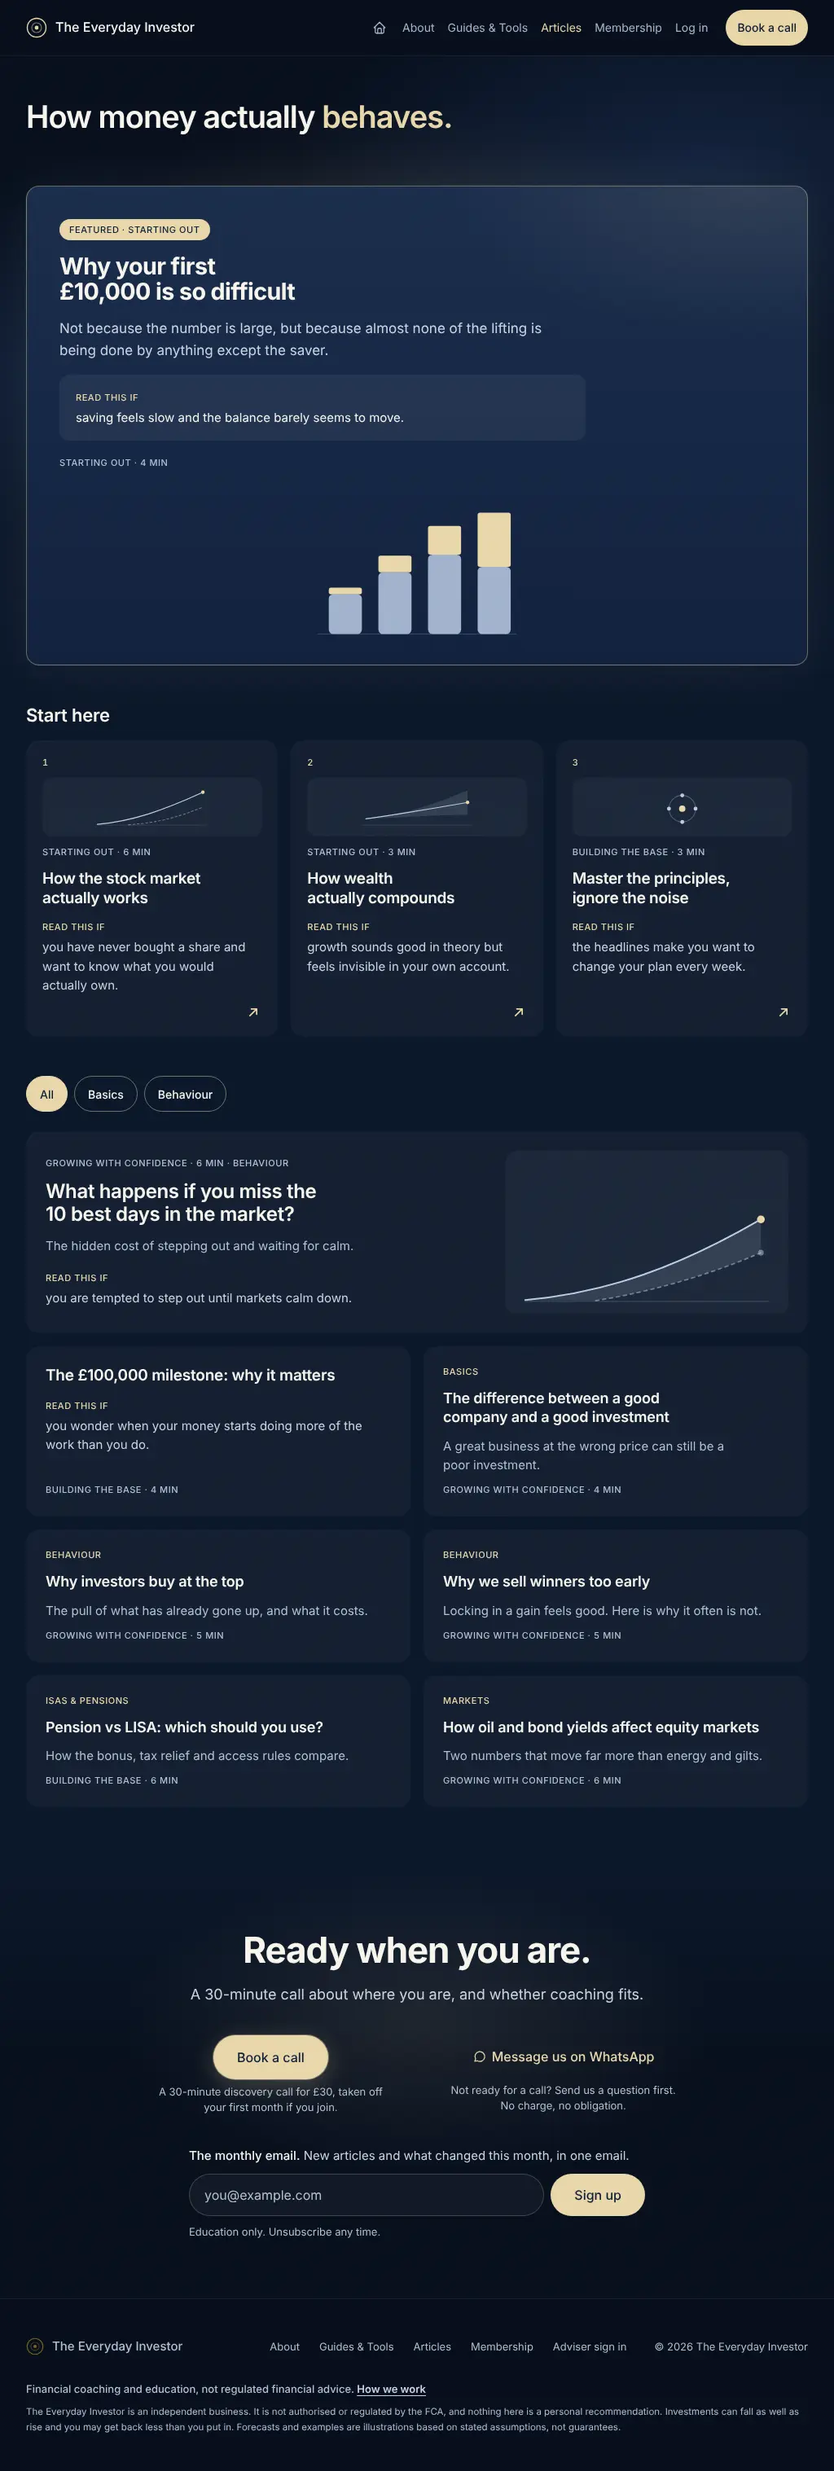
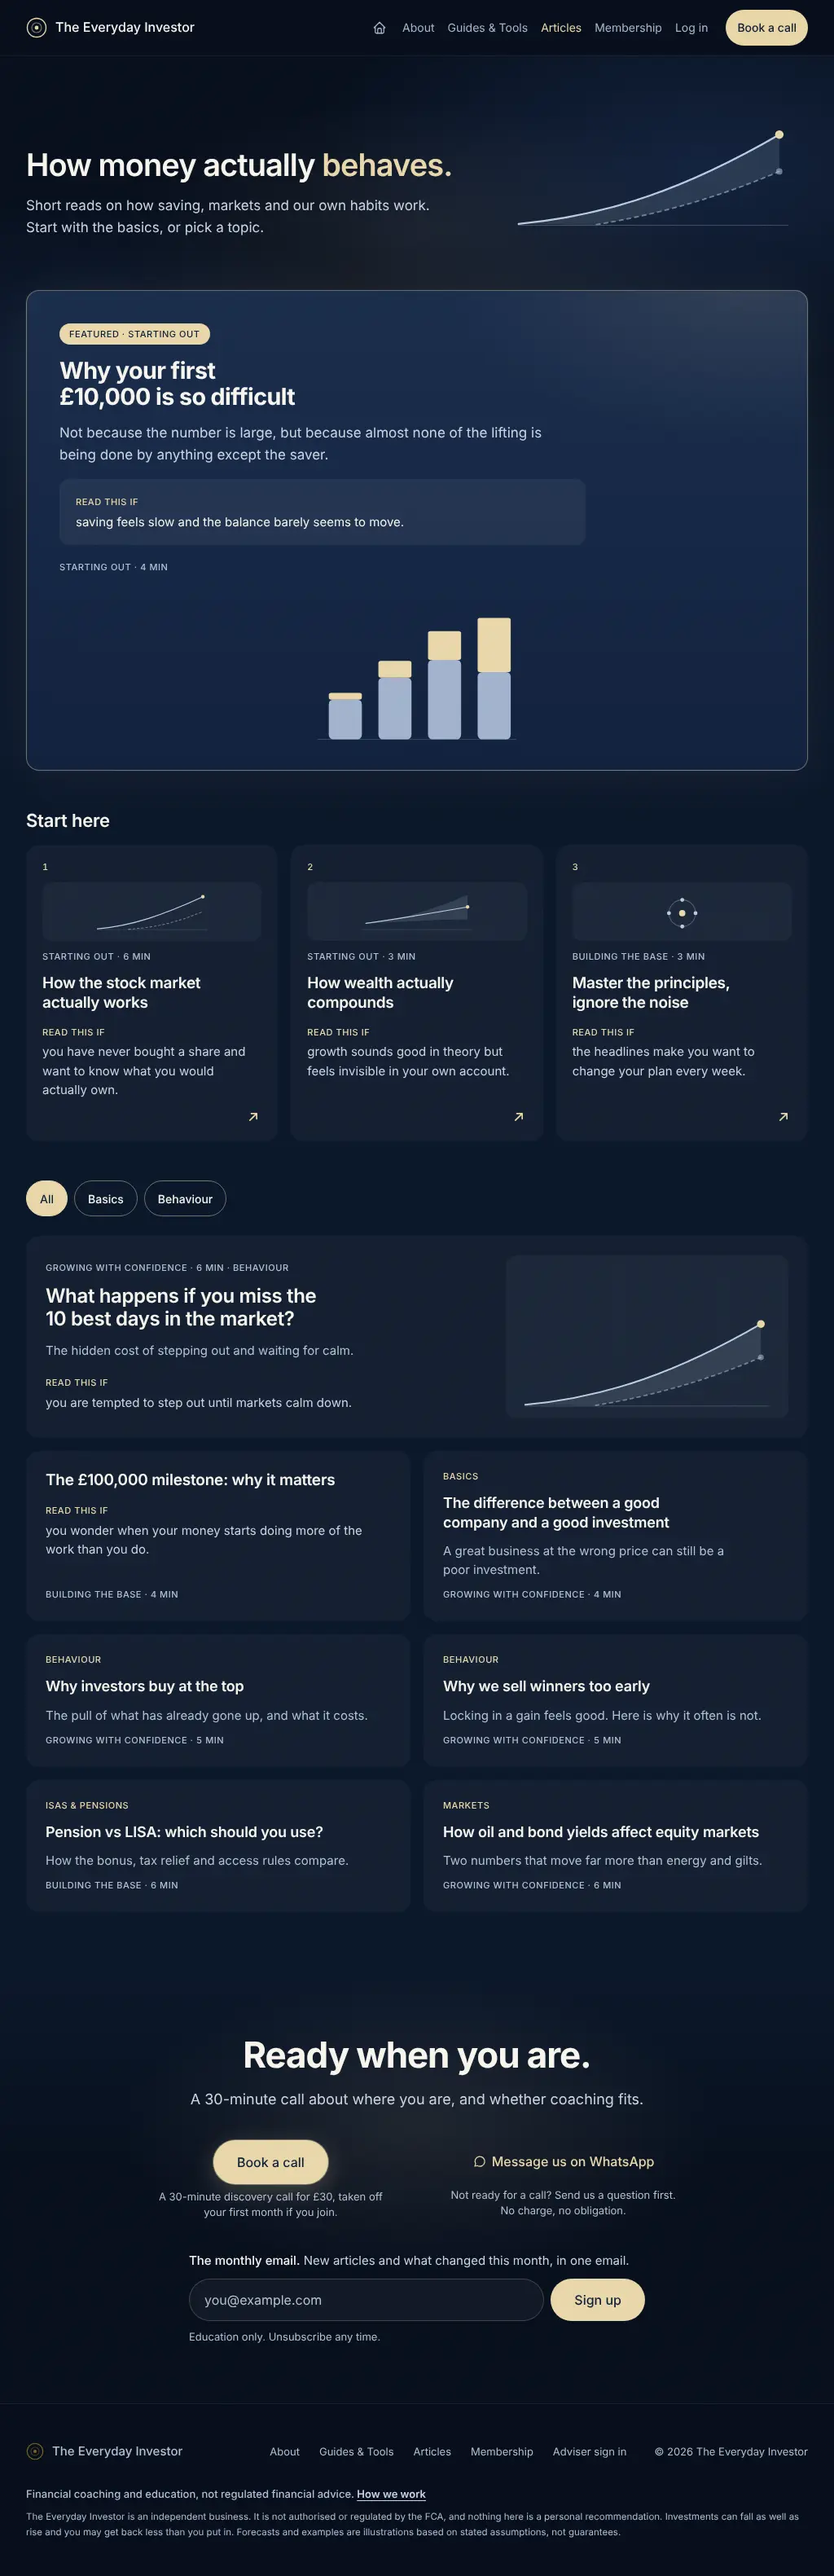
Articles: hero line and picture; the i opens on hover or tap; art on every phone card
- Hero: a line under the title and the "lines" picture on the right (a wide
  strip of it on phones). Written in the HTML so it shows with JS off.
- "Read this if" on phones sits behind an i after each title (featured,
  Start here, every grid card). Hover opens it where there is hover; a tap
  opens it on phones (no hover there); a tap elsewhere or Escape closes it.
  Cards are now a title link stretched over the card, so the i can be a
  real button beside it.
- Every grid card has a picture on phones; the lead's is taller (112px).
Desktop cards unchanged.

Claude-Session: https://claude.ai/code/session_015wx5SxX2gBEycz1xZd8Pnn

diff --git a/articles.html b/articles.html
@@ -37,26 +37,29 @@
 
 <main class="tei-page g-page" id="main">
 
-<section class="g-band g-hero">
+<section class="g-band g-hero al-hero">
 <div class="g-glow g-glow-hero" aria-hidden="true"></div>
-<div class="g-w g-in">
+<div class="g-w g-in al-hero-in">
 <h1>How money actually <span class="g-accent">behaves.</span></h1>
+<p class="g-dek">Short reads on how saving, markets and our own habits work. Start with the basics, or pick a topic.</p>
+<!-- The "lines" picture from /assets/tei-art.js, written here so it shows with JS off; on phones a wide strip of the same picture -->
+<div class="al-hero-art al-art is-bare" aria-hidden="true"><svg class="gt-svg al-hero-strip" viewBox="0 0 400 64" preserveAspectRatio="xMidYMax meet" focusable="false"><line class="s-pale" x1="6" y1="62" x2="394" y2="62"/><path class="f-pale" d="M6 61 C 150 57, 280 38, 388 8 L 388 32 C 300 46, 200 56, 110 61 Z"/><path class="s-main w3" d="M6 61 C 150 57, 280 38, 388 8"/><path class="s-main w2 dash o5" d="M110 61 C 200 56, 300 46, 388 32"/><circle class="f-acc" cx="388" cy="8" r="5"/><circle class="f-main o5" cx="388" cy="32" r="4"/></svg><svg class="gt-svg al-hero-big" viewBox="0 0 400 150" preserveAspectRatio="xMidYMax meet" focusable="false"><line class="s-pale" x1="10" y1="146" x2="390" y2="146"/><path class="f-pale t-fade" d="M10 144 C 140 132, 250 92, 378 18 L 378 70 C 290 108, 200 132, 120 145 Z"/><path class="s-main w3 t-draw2" d="M10 144 C 140 132, 250 92, 378 18"/><path class="s-main w2 dash o5 t-draw2 d2" d="M120 145 C 200 132, 290 108, 378 70"/><circle class="f-acc t-blink" cx="378" cy="18" r="6"/><circle class="f-main o5" cx="378" cy="70" r="4.5"/></svg></div>
 </div>
 </section>
 
 <!-- THE LIST, all from /articles.json: the featured article in the lifted feature card (.g-feature.is-lift), Start here (three numbered cards), the filters, then one grid of the rest. A filter or a ?series= view hides the first two and shows every match in the grid. -->
 <section class="g-band g-b1 g-from0 is-long" aria-label="All articles">
 <div class="g-w is-tight">
-<a id="al-featured" class="g-feature is-lift al-feat" hidden href="/articles.html">
+<div id="al-featured" class="g-feature is-lift al-feat" hidden>
 <div class="al-feat-body">
 <span class="al-feat-tag" data-al="tag"></span>
-<h2 data-al="title"></h2>
+<h2 class="al-h3" data-al="title"></h2>
 <p class="al-feat-teaser" data-al="teaser"></p>
-<div class="al-ri is-tile"><svg class="al-i" viewBox="0 0 24 24" aria-hidden="true" focusable="false"><circle cx="12" cy="12" r="9"></circle><path d="M12 11v5"></path><path d="M12 7.6v.2"></path></svg><span class="al-k is-champ al-ri-k">Read this if</span><p data-al="readif"></p></div>
+<div class="al-ri is-tile"><span class="al-k is-champ">Read this if</span><p data-al="readif"></p></div>
 <p class="al-feat-meta al-k" data-al="meta"></p>
 </div>
 <div class="al-feat-art al-art is-bare" aria-hidden="true" data-al="art"></div>
-</a>
+</div>
 <section id="al-start" class="al-start" aria-labelledby="al-start-h" hidden>
 <h2 class="al-h" id="al-start-h">Start here</h2>
 <ol id="al-start-list" class="al-start-list"></ol>
@@ -149,9 +152,21 @@
     return '<span class="al-tf">' + esc(a.title) + '</span><span class="al-ts" aria-hidden="true">' + esc(a.shortTitle) + '</span>';
   }
   function readIf(a) { return esc(String(a.readIf || '').replace(/^Read this if\s+/i, '')); }
-  // "Read this if": a label on desktop, an outline i on phones.
-  var INFO = '<svg class="al-i" viewBox="0 0 24 24" aria-hidden="true" focusable="false"><circle cx="12" cy="12" r="9"></circle><path d="M12 11v5"></path><path d="M12 7.6v.2"></path></svg>';
-  function ri(a) { return a.readIf ? '<div class="al-ri">' + INFO + '<span class="al-k is-champ al-ri-k">Read this if</span><p>' + readIf(a) + '</p></div>' : ''; }
+  // "Read this if" shows in full on desktop; on phones it sits behind an i
+  // after the title, opened by hover where there is one, and by a tap.
+  var INFO = '<svg viewBox="0 0 24 24" aria-hidden="true" focusable="false"><circle cx="12" cy="12" r="9"></circle><path d="M12 11v5"></path><path d="M12 7.6v.2"></path></svg>';
+  var uid = 0;
+  function ri(a) { return a.readIf ? '<div class="al-ri"><span class="al-k is-champ">Read this if</span><p>' + readIf(a) + '</p></div>' : ''; }
+  function info(a) {
+    if (!a.readIf) return '';
+    var id = 'al-pop-' + (++uid);
+    return '<button type="button" class="al-info" aria-expanded="false" aria-controls="' + id + '" aria-label="Read this if">' + INFO + '</button>' +
+      '<span class="al-pop" id="' + id + '" hidden><span class="al-k is-champ">Read this if</span> ' + readIf(a) + '</span>';
+  }
+  // The title is the card's link (stretched over the card); the i sits beside it.
+  function head(a, tag) {
+    return '<' + tag + ' class="al-h3"><a class="al-a" href="' + T.urlFor(a) + '">' + title(a) + '</a>' + info(a) + '</' + tag + '>';
+  }
   function art(a, big) {
     if (!A) return '';
     if (a.art === 'bars') return A.stack();
@@ -181,20 +196,22 @@
   }
 
   function card(a, i, w, n) {
-    var at = ' data-w="' + w + '" data-n="' + n + '" href="' + T.urlFor(a) + '"';
+    var at = ' data-w="' + w + '" data-n="' + n + '"';
     if (i === 0) {
-      return '<a class="al-card is-lead"' + at + '><div class="al-lead-body">' +
+      return '<div class="al-card is-lead"' + at + '><div class="al-lead-body">' +
         '<p class="al-k">' + meta(a) + '<span class="al-st"> &middot; ' + esc(a.category) + '</span></p>' +
-        '<h3>' + title(a) + '</h3><p class="al-teaser">' + esc(a.teaser) + '</p>' + ri(a) + '</div>' +
-        '<div class="al-art" aria-hidden="true">' + art(a, true) + '</div></a>';
+        head(a, 'h3') + '<p class="al-teaser">' + esc(a.teaser) + '</p>' + ri(a) + '</div>' +
+        '<div class="al-art" aria-hidden="true">' + art(a, true) + '</div></div>';
     }
     if (i === 1 && w === 4) {
-      return '<a class="al-card is-side"' + at + '><div class="al-art" aria-hidden="true">' + art(a, false) + '</div>' +
-        '<h3>' + title(a) + '</h3>' + ri(a) + '<p class="al-k al-meta">' + meta(a) + '</p></a>';
+      return '<div class="al-card is-side"' + at + '><div class="al-art" aria-hidden="true">' + art(a, false) + '</div>' +
+        head(a, 'h3') + ri(a) + '<p class="al-k al-meta">' + meta(a) + '</p></div>';
     }
-    return '<a class="al-card"' + at + '><p class="al-k is-champ al-tag">' + esc(a.category) + '</p>' +
-      '<h3>' + title(a) + '</h3><p class="al-teaser">' + esc(a.teaser) + '</p>' +
-      '<p class="al-k al-meta">' + meta(a) + '</p></a>';
+    // The picture shows on phones only (every card has one there).
+    return '<div class="al-card"' + at + '><div class="al-art is-phone" aria-hidden="true">' + art(a, false) + '</div>' +
+      '<p class="al-k is-champ al-tag">' + esc(a.category) + '</p>' +
+      head(a, 'h3') + '<p class="al-teaser">' + esc(a.teaser) + '</p>' +
+      '<p class="al-k al-meta">' + meta(a) + '</p></div>';
   }
 
   // The lead goes first: the article marked lead, else the first in the list.
@@ -208,6 +225,7 @@
     var base = seriesSlug ? all.filter(function (a) { return a.series && a.series.slug === seriesSlug; }) :
       category === 'All' ? rest : all.filter(function (a) { return a.category === category; });
     var list = withLead(base), w = wide(list.length), n = narrow(list.length);
+    closeInfo();
     grid.innerHTML = list.map(function (a, i) { return card(a, i, w[i], n[i]); }).join('');
     feat.hidden = filtered || !featured;
     start.hidden = filtered || !startList.children.length;
@@ -232,9 +250,8 @@
   }
 
   function drawFeatured() {
-    feat.href = T.urlFor(featured);
     feat.querySelector('[data-al="tag"]').innerHTML = 'Featured<span class="al-st"> &middot; ' + esc(featured.stage) + '</span><span class="al-ph"> &middot; ' + esc(mins(featured)) + '</span>';
-    feat.querySelector('[data-al="title"]').innerHTML = title(featured);
+    feat.querySelector('[data-al="title"]').innerHTML = '<a class="al-a" href="' + T.urlFor(featured) + '">' + title(featured) + '</a>' + info(featured);
     feat.querySelector('[data-al="teaser"]').textContent = featured.teaser;
     feat.querySelector('[data-al="readif"]').innerHTML = readIf(featured);
     feat.querySelector('[data-al="meta"]').innerHTML = meta(featured);
@@ -243,13 +260,50 @@
 
   function drawStart(list) {
     startList.innerHTML = list.map(function (a) {
-      return '<li><a class="al-start-card" href="' + T.urlFor(a) + '">' +
+      return '<li><div class="al-start-card">' +
         '<span class="al-num" aria-hidden="true">' + a.startHere + '</span>' +
         '<div class="al-art" aria-hidden="true">' + art(a, false) + '</div>' +
         '<p class="al-k al-start-meta">' + meta(a) + '</p>' +
-        '<h3>' + title(a) + '</h3>' + ri(a) +
-        '<p class="al-k al-start-time">' + meta(a) + '</p>' + ARROW + '</a></li>';
+        head(a, 'h3') + ri(a) +
+        '<p class="al-k al-start-time">' + meta(a) + '</p>' + ARROW + '</div></li>';
     }).join('');
+  }
+
+  /* The i: a tap or click opens and closes it; hover opens it where there is
+     hover; a click elsewhere or Escape closes it. One open at a time. */
+  var openBtn = null;
+  function setInfo(b, open) {
+    var pop = $(b.getAttribute('aria-controls'));
+    if (!pop) return;
+    if (open && openBtn && openBtn !== b) setInfo(openBtn, false);
+    pop.hidden = !open;
+    b.setAttribute('aria-expanded', open ? 'true' : 'false');
+    openBtn = open ? b : openBtn === b ? null : openBtn;
+    if (!open) delete b.dataset.hov;
+  }
+  function closeInfo() { if (openBtn) setInfo(openBtn, false); openBtn = null; }
+  document.addEventListener('click', function (e) {
+    var b = e.target.closest && e.target.closest('.al-info');
+    if (b) {
+      e.preventDefault();
+      if (b.dataset.hov) { delete b.dataset.hov; return; }
+      setInfo(b, b.getAttribute('aria-expanded') !== 'true');
+      return;
+    }
+    if (openBtn && !e.target.closest('.al-pop')) closeInfo();
+  });
+  document.addEventListener('keydown', function (e) {
+    if (e.key === 'Escape' && openBtn) { var b = openBtn; closeInfo(); b.focus(); }
+  });
+  if (window.matchMedia && matchMedia('(hover: hover)').matches) {
+    document.addEventListener('mouseover', function (e) {
+      var b = e.target.closest && e.target.closest('.al-info');
+      if (b && b.getAttribute('aria-expanded') !== 'true') { setInfo(b, true); b.dataset.hov = '1'; }
+    });
+    document.addEventListener('mouseout', function (e) {
+      var b = e.target.closest && e.target.closest('.al-info');
+      if (b && b.dataset.hov && !b.contains(e.relatedTarget)) setInfo(b, false);
+    });
   }
 
   T.load().then(function (articles) {

diff --git a/assets/site-pages.css b/assets/site-pages.css
@@ -219,7 +219,24 @@
 .al-k.is-champ { color: var(--g-champ); }
 .al-nw { white-space: nowrap; }
 /* Phone-only parts: the short title, the read time in the featured chip, the i */
-.al-ts, .al-ph, .al-i { display: none; }
+.al-ts, .al-ph, .al-info, .al-art.is-phone { display: none; }
+
+/* Each card's link is its title, stretched over the card; the i (phones)
+   sits above it. */
+.al-h3 { margin: 0; }
+.al-a { color: inherit; text-decoration: none; }
+.al-a::after { content: ""; position: absolute; inset: 0; z-index: 1; border-radius: 16px; }
+.al-a:focus-visible { outline: none; }
+.al-a:focus-visible::after { outline: 2px solid var(--g-champ); outline-offset: 2px; }
+.al-pop { position: absolute; z-index: 3; left: 12px; right: 12px; display: block; margin-top: 8px; padding: 12px; border-radius: 12px; background: #1A2C4A; border: 1px solid rgba(232, 214, 168, .35); font-family: var(--tei-word); font-size: 13px; font-weight: 400; line-height: 1.5; letter-spacing: 0; color: var(--g-ink); text-wrap: pretty; }
+.al-pop .al-k { display: block; margin-bottom: 4px; }
+
+/* Hero: the line and a picture on the right */
+.al-hero-in { display: grid; grid-template-columns: minmax(0, 7fr) minmax(0, 5fr); grid-template-rows: 1fr auto; column-gap: 48px; align-items: end; }
+.al-hero-in > h1, .al-hero-in > .g-dek { grid-column: 1; }
+.al-hero-art { grid-column: 2; grid-row: 1 / span 2; height: 168px; }
+.al-hero-art .gt-svg { left: 0; bottom: 0; width: 100%; height: 100%; }
+.al-hero-strip { display: none; }
 
 /* Pictures */
 .al-art {
@@ -288,7 +305,7 @@
 
 /* The grid: 12 columns from 1100px, widths from data-w */
 .al-grid { margin-top: 24px; display: grid; grid-template-columns: repeat(12, minmax(0, 1fr)); gap: 16px; }
-.al-card { grid-column: span 4; min-width: 0; box-sizing: border-box; display: flex; flex-direction: column; gap: 12px; padding: 24px; border-radius: 16px; background: var(--g-tile); text-decoration: none; color: var(--g-ink); }
+.al-card { position: relative; grid-column: span 4; min-width: 0; box-sizing: border-box; display: flex; flex-direction: column; gap: 12px; padding: 24px; border-radius: 16px; background: var(--g-tile); text-decoration: none; color: var(--g-ink); }
 .al-card[data-w="6"] { grid-column: span 6; }
 .al-card[data-w="8"] { grid-column: span 8; }
 .al-card[data-w="12"] { grid-column: span 12; }
@@ -327,9 +344,17 @@
   .al-st { display: none; }
   .al-ph, .al-ts { display: inline; }
   .al-tf, .al-ri-k { position: absolute; width: 1px; height: 1px; overflow: hidden; clip: rect(0 0 0 0); white-space: nowrap; }
-  .al-ri { display: grid; grid-template-columns: 16px minmax(0, 1fr); column-gap: 8px; align-items: start; }
-  .al-i { display: block; width: 16px; height: 16px; margin-top: 2px; fill: none; stroke: var(--g-champ); stroke-width: 1.8; stroke-linecap: round; }
-  .al-ri p { margin: 0; font-size: 14px; line-height: 1.5; }
+  /* "Read this if" behind the i after each title */
+  .al-ri { display: none; }
+  .al-info { -webkit-tap-highlight-color: transparent; display: inline-flex; position: relative; z-index: 2; align-items: center; justify-content: center; width: 44px; height: 44px; margin: -14px -14px -14px -8px; padding: 0; border: 0; background: none; color: var(--g-champ); cursor: pointer; vertical-align: middle; }
+  .al-info svg { width: 16px; height: 16px; fill: none; stroke: currentColor; stroke-width: 1.8; stroke-linecap: round; }
+  .al-info[aria-expanded="true"] svg { fill: rgba(232, 214, 168, .18); }
+
+  /* Hero: the title, the line, then the picture as a wide strip */
+  .al-hero-in { display: block; }
+  .al-hero-art { height: auto; margin-top: 20px; }
+  .al-hero-big { display: none; }
+  .al-hero-art .al-hero-strip { display: block; position: static; width: 100%; height: auto; }
 
   /* Featured: chip, title, the picture with room, then Read this if */
   .al-feat { display: flex; flex-direction: column; gap: 12px; padding: 16px; }
@@ -339,18 +364,15 @@
   .al-feat-teaser, .al-feat-meta { display: none; }
   .al-feat-art { order: 3; height: 120px; min-height: 0; }
   .al-feat-art .gt-svg { left: 8px; bottom: 0; width: calc(100% - 16px); height: 100%; }
-  .al-feat .al-ri { order: 4; max-width: none; }
-  .al-ri.is-tile { padding: 12px; }
 
   /* Start here: one tile, three numbered rows */
   .al-start { margin-top: 24px; }
   .al-h { font-size: 17px; }
-  .al-start-list { margin-top: 8px; grid-template-columns: minmax(0, 1fr); gap: 16px; padding: 16px; border-radius: 12px; background: var(--g-tile); }
+  .al-start-list { margin-top: 8px; grid-template-columns: minmax(0, 1fr); gap: 8px; padding: 16px; border-radius: 12px; background: var(--g-tile); }
   .al-start-card { display: grid; grid-template-columns: 16px minmax(0, 1fr) auto; column-gap: 12px; row-gap: 4px; min-height: 44px; padding: 0; border-radius: 0; background: none; }
   .al-num { grid-column: 1; grid-row: 1; font-size: 13px; line-height: 1.6; }
   .al-start-card h3 { grid-column: 2; grid-row: 1; font-size: 16px; line-height: 1.35; }
   .al-start-time { display: block; grid-column: 3; grid-row: 1; line-height: 2; }
-  .al-start-card .al-ri { grid-column: 2 / span 2; grid-row: 2; }
   .al-start-card .al-art, .al-start-meta, .al-arrow { display: none; }
 
   .al-list { margin-top: 24px; }
@@ -364,11 +386,13 @@
   .al-grid { margin-top: 12px; gap: 8px; }
   .al-card { padding: 12px 16px; gap: 4px; border-radius: 12px; min-height: 44px; }
   .al-card h3, .al-card.is-side h3 { font-size: 15px; line-height: 1.3; }
-  .al-card .al-tag, .al-card .al-teaser, .al-card .al-ri, .al-card.is-side > .al-art { display: none; }
+  .al-card .al-tag, .al-card .al-teaser { display: none; }
+  /* Every card has a picture on phones */
+  .al-card > .al-art, .al-card.is-side > .al-art, .al-art.is-phone { display: block; flex: none; height: 56px; }
   .al-card .al-meta { margin-top: auto; padding-top: 4px; }
   /* The lead: a picture strip, the title, the read time */
   .al-card.is-lead { flex-direction: column; gap: 8px; }
-  .al-card.is-lead > .al-art { order: -1; flex: none; min-height: 0; height: 64px; }
+  .al-card.is-lead > .al-art { order: -1; flex: none; min-height: 0; height: 112px; }
   .al-card.is-lead h3 { font-size: 17px; }
   .al-lead-body { gap: 4px; }
   .al-lead-body > .al-k { order: 2; }
